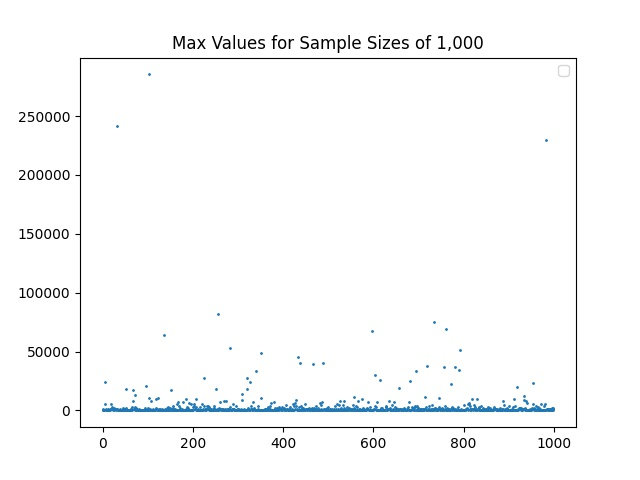
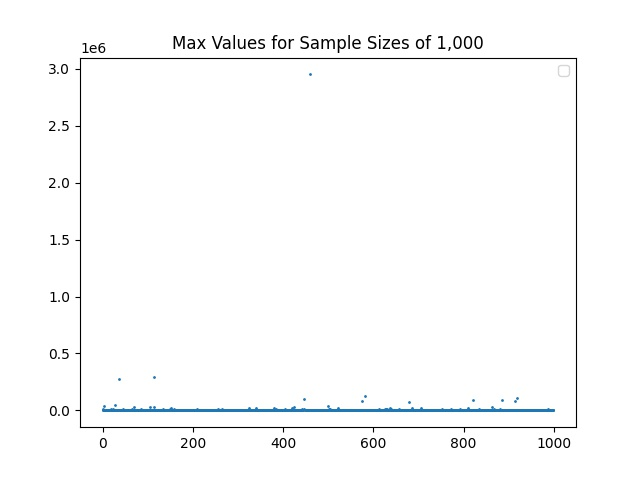
Assn 8 progress, revisiting power law dists to get code that runs in less than one lifetime

diff --git a/Assn8/Percolation_Missy.py b/Assn8/Percolation_Missy.py
@@ -1,0 +1,74 @@
+import numpy as np
+import random
+import matplotlib.pyplot as plt
+import pandas as pd
+from scipy import ndimage
+from Monktools import plottools, ranktools
+
+
+def run_percolation(world, probability, l):
+    for i in range(l):  # for cell in every row
+        for j in range(l):  # and every column
+            die = random.uniform(0, 1)
+            if die < probability:
+                world[(i, j)] = 1
+            else:
+                world[(i, j)] = 0
+
+    return world
+
+
+def get_percolation_cluster_avg_size(probability, l):
+    # initial conditions of zero
+    world = np.zeros((l,l))
+    world = run_percolation(world, probability, l)  # run model
+    # filter largest cluster
+    # Site percolation
+    structure = [[0, 1, 0], [1, 1, 1], [0, 1, 0]]  # define connection
+    label_world, nb_labels = ndimage.label(world, structure)  # label clusters
+    cluster_sizes = ndimage.sum(world, label_world, range(nb_labels + 1))
+    return cluster_sizes.max(), cluster_sizes
+
+
+# Parameters
+l_vals = [20, 50, 100, 200, 500, 1000]  # square lattice of size L
+# l_vals = [20, 50, 100]  # square lattice of size L
+probabilities = np.linspace(0, 1, 100) # occupation probabilities to test
+
+
+for l in l_vals:
+    print(f"L = {l}")
+    prob_to_max_avg_cluster = []
+    for idx, p in enumerate(probabilities):
+        max_sum = 0
+        for i in range(100):  # run 100 tests for each probability
+            max_cluster_size = get_percolation_cluster_avg_size(p, l)[0]
+            max_sum += max_cluster_size
+        max_avg_cluster_size = max_sum/100
+        prob_to_max_avg_cluster.append(max_avg_cluster_size)
+    plt.plot(probabilities, prob_to_max_avg_cluster, label=f"L = {l}")
+
+plt.legend()
+plt.savefig(f"Plots/p_vs_s_avg_0_{max(l_vals)}")
+
+
+def get_and_plot_cluster_size_dist(p, l):
+    max_cluster_size, cluster_sizes = get_percolation_cluster_avg_size(p, l)
+    df = pd.DataFrame(cluster_sizes, columns=["size"])
+    dist = ranktools.group_data(df, "size", "n_k")
+    # x axis = forest size
+    # y axis = num_clusters
+    plt.clf()
+    plt.scatter(dist["size"], dist["n_k"])
+    plt.show()
+    plt.savefig(f"Plots/cluster_size_dist_probability_{p}_L_")
+
+
+# q_6_a plot distribution of cluster sizes for large L and threshold p
+p_threshold = 0.592746
+get_and_plot_cluster_size_dist(p_threshold, 500)
+
+# q_6_b plot distribution of cluster sizes for large L and p values: [p_c/2, p_c + (1-p_c)/2]
+get_and_plot_cluster_size_dist(p_threshold/2, 500)
+get_and_plot_cluster_size_dist(p_threshold + (1-p_threshold)/2, 500)
+

diff --git a/Assn7/SimulatingPowerLawDistribution.py b/Assn7/SimulatingPowerLawDistribution.py
@@ -12,33 +12,17 @@ import numpy as np
 
 def q_1_a():
     gamma = 5 / 2
-    norm_constant = (gamma - 1) / (1 - 10_000_000 ** -(gamma - 1))
 
     def p_k(k):
         return k ** (-gamma)
 
-    p_k_vals = [p_k(k) for k in range(1, 10_000_000 + 1)]
-    bins = [x / norm_constant for x in p_k_vals]
-    cum_bins =numpy.zeros(len(bins))
-    total = 0
-    for idx, bin in enumerate(bins):
-        total += bin
-        cum_bins[idx] = total
-
-    def filter_portions(boundary: float):
-        if  boundary < cum_bins[0]: return 1
-        out = numpy.where(boundary > cum_bins)
-        return len(out)
-        for idx, bin in enumerate(cum_bins):
-            if bin > boundary: # given boundary of .99, we want to see if
-                return idx+1
-        return len(bins)
+    def get_k(r, gamma):
+        return round((1 - r) ** (-1 / (gamma - 1)))
 
     def get_power_law_k_value() -> int:
         boundary = np.random.rand()
-        k = filter_portions(boundary)
+        k = get_k(boundary, gamma)
         return k
-
 
     def get_max_values(samples: int, sample_size: int) -> List[int]:
         max_vals = list()
@@ -86,3 +70,4 @@ def q_1_b():
 
 
 q_1_a()
+q_1_b()

diff --git a/Assn8/Percolation.py b/Assn8/Percolation.py
@@ -77,5 +77,5 @@ ax2.imshow(binary_img, cmap=plt.get_cmap(cm.bone), origin='lower')
 
 # Add label
 ax1.text(2, N1 + 5, f'Site percolation with probability {probability}', color='Orange', fontsize=18)
-ax2.text(2, N1 + 5, f'Largest cluster found', color='Orange', fontsize=18)
+ax2.text(2, N1 + 5, f'Largest cluster found of size {sizes.max()}', color='Orange', fontsize=18)
 plt.show()
